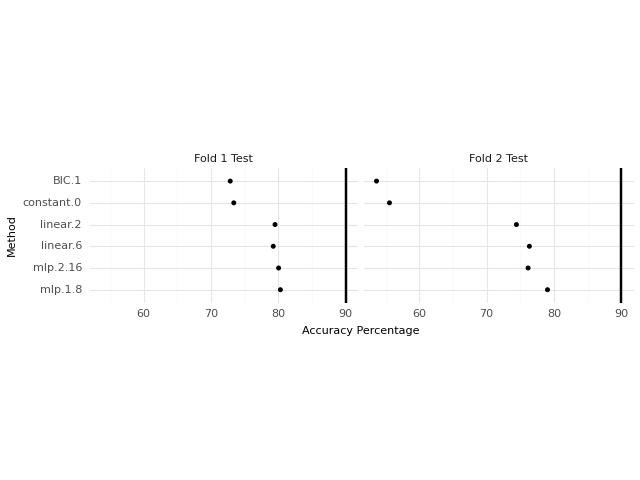
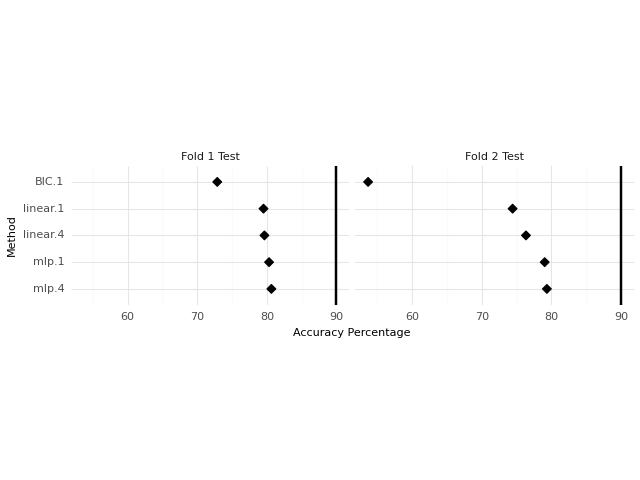
update figure

diff --git a/accuracy_rate_comparison_figure.py b/accuracy_rate_comparison_figure.py
@@ -35,7 +35,7 @@ def acc_plot(df):
 
     # Plotting with different shapes for each algorithm
     plot_combined = (ggplot(data, aes(x='Accuracy', y='Method')) +
-                    geom_point(size=1) +
+                    geom_point(shape="D", size=2) +
                     labs(title="",
                         x="Accuracy Percentage",
                         y="Method") +
